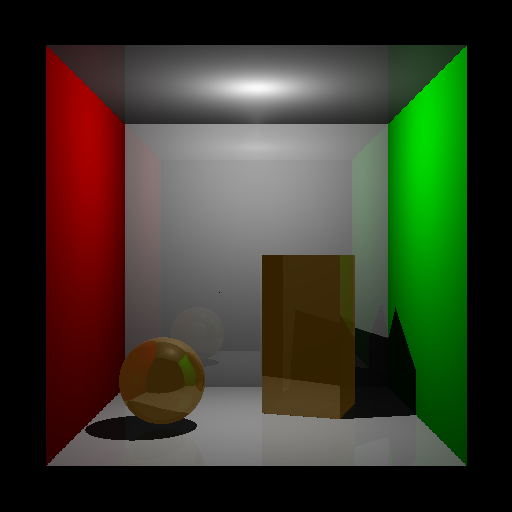
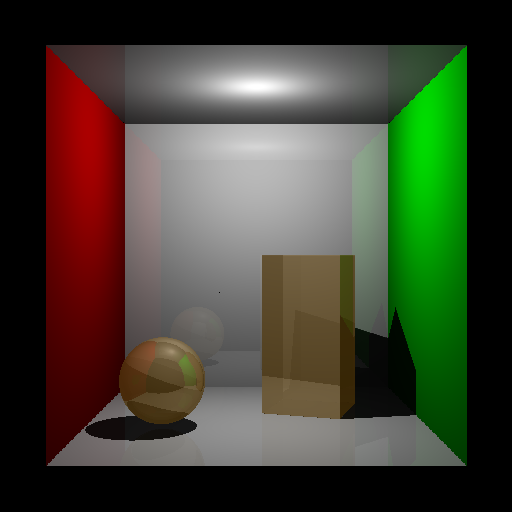
works now

diff --git a/Assets/Scripts/RayTracing/RayTracer.cs b/Assets/Scripts/RayTracing/RayTracer.cs
@@ -172,7 +172,7 @@ public class RayTracer : MonoBehaviour
         foreach(PointLightObject l in _pointLightObjects)
         {
             var L = Vector3.Normalize(l.LightPos - hit.point); //Getting vector of light aka the de-facto view
-            var H = Vector3.Normalize(new Vector3((L.x + V.x)/2, (L.y + V.y)/2, (L.z + V.z)/2)); //Hopefully yhis works
+            var H = Vector3.Normalize(-V+L); //Hopefully yhis works
             //Light distance att calc
             float lAtt = 1f / (1f + Mathf.Pow(Vector3.Distance(hit.point, l.LightPos), 2));
             // Shad att calc
